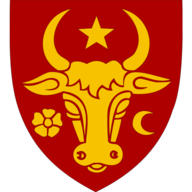
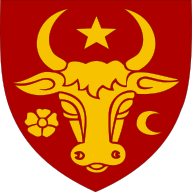
Add Moldavia crest branding

diff --git a/_includes/custom-head.html b/_includes/custom-head.html
@@ -4,10 +4,12 @@
   1. Head over to https://realfavicongenerator.net/ to add your own favicons.
   2. Customize default _includes/custom-head.html in your source directory and insert the given code snippet.
 {% endcomment %}
-<link rel="apple-touch-icon" sizes="180x180" href="/apple-touch-icon.png">
-<link rel="icon" type="image/png" sizes="32x32" href="/favicon-32x32.png">
-<link rel="icon" type="image/png" sizes="16x16" href="/favicon-16x16.png">
-<link rel="manifest" href="/site.webmanifest">
-<link rel="mask-icon" href="/safari-pinned-tab.svg" color="#5bbad5">
+<link rel="icon" type="image/svg+xml" href="{{ '/assets/stema-moldovei.svg' | relative_url }}">
+<link rel="shortcut icon" href="{{ '/favicon.ico' | relative_url }}">
+<link rel="apple-touch-icon" sizes="180x180" href="{{ '/apple-touch-icon.png' | relative_url }}">
+<link rel="icon" type="image/png" sizes="32x32" href="{{ '/favicon-32x32.png' | relative_url }}">
+<link rel="icon" type="image/png" sizes="16x16" href="{{ '/favicon-16x16.png' | relative_url }}">
+<link rel="manifest" href="{{ '/site.webmanifest' | relative_url }}">
+<link rel="mask-icon" href="{{ '/assets/stema-moldovei.svg' | relative_url }}" color="#b00000">
 <meta name="msapplication-TileColor" content="#da532c">
 <meta name="theme-color" content="#ffffff">

diff --git a/assets/main.scss b/assets/main.scss
@@ -84,11 +84,22 @@ a:hover {
 
 .site-title,
 .site-title:visited {
+  display: inline-flex;
+  align-items: center;
+  gap: 0.55rem;
   color: var(--ink);
   font-size: 1.05rem;
   font-weight: 700;
   letter-spacing: -0.02em;
   text-decoration: none;
+}
+
+.site-title__crest {
+  display: block;
+  width: 28px;
+  height: 31px;
+  flex: 0 0 auto;
+  object-fit: contain;
 }
 
 .site-nav {
@@ -150,13 +161,28 @@ a:hover {
   border-bottom: 1px solid var(--line);
 }
 
-.civic-hero h1 {
+.civic-hero h1.civic-hero__brand {
+  display: flex;
+  align-items: center;
+  gap: 0.32em;
   margin: 0 0 1rem;
   color: var(--ink);
   font-size: clamp(2.8rem, 8vw, 5.25rem);
   font-weight: 700;
   letter-spacing: -0.08em;
   line-height: 0.98;
+}
+
+.civic-hero__brand img {
+  display: block;
+  width: 0.92em;
+  height: 1.02em;
+  flex: 0 0 auto;
+  object-fit: contain;
+}
+
+.civic-hero__brand span {
+  display: block;
 }
 
 .civic-hero__lead {

diff --git a/ru/index.html b/ru/index.html
@@ -8,7 +8,10 @@ permalink: /ru/
 <div class="civic-home">
   <section class="civic-hero" aria-labelledby="site-title-ru">
     <p class="eyebrow">Гражданская инициатива</p>
-    <h1 id="site-title-ru">MOLDOVA</h1>
+    <h1 id="site-title-ru" class="civic-hero__brand">
+      <img src="{{ '/assets/stema-moldovei.svg' | relative_url }}" alt="" width="77" height="85">
+      <span>MOLDOVA</span>
+    </h1>
     <p class="civic-hero__lead">Документирование, анализ и диалог о Республике Молдова — её истории, идентичности, языке, институтах и общественном интересе.</p>
     <div class="hero-actions" aria-label="Быстрый доступ">
       <a class="button-link" href="{{ '/ru/initsiativy/' | relative_url }}">Посмотреть инициативы</a>

diff --git a/fr/index.html b/fr/index.html
@@ -8,7 +8,10 @@ permalink: /fr/
 <div class="civic-home">
   <section class="civic-hero" aria-labelledby="site-title-fr">
     <p class="eyebrow">Initiative civique</p>
-    <h1 id="site-title-fr">MOLDOVA</h1>
+    <h1 id="site-title-fr" class="civic-hero__brand">
+      <img src="{{ '/assets/stema-moldovei.svg' | relative_url }}" alt="" width="77" height="85">
+      <span>MOLDOVA</span>
+    </h1>
     <p class="civic-hero__lead">Documentation, analyse et dialogue sur la République de Moldova — histoire, identité, langue, institutions et intérêt public.</p>
     <div class="hero-actions" aria-label="Accès rapide">
       <a class="button-link" href="{{ '/fr/initiatives/' | relative_url }}">Voir les initiatives</a>

diff --git a/en/index.html b/en/index.html
@@ -8,7 +8,10 @@ permalink: /en/
 <div class="civic-home">
   <section class="civic-hero" aria-labelledby="site-title-en">
     <p class="eyebrow">Civic initiative</p>
-    <h1 id="site-title-en">MOLDOVA</h1>
+    <h1 id="site-title-en" class="civic-hero__brand">
+      <img src="{{ '/assets/stema-moldovei.svg' | relative_url }}" alt="" width="77" height="85">
+      <span>MOLDOVA</span>
+    </h1>
     <p class="civic-hero__lead">Documentation, analysis and dialogue about the Republic of Moldova — history, identity, language, institutions and the public interest.</p>
     <div class="hero-actions" aria-label="Quick access">
       <a class="button-link" href="{{ '/en/initiatives/' | relative_url }}">View initiatives</a>

diff --git a/index.html b/index.html
@@ -7,7 +7,10 @@ lang: mo
 <div class="civic-home">
   <section class="civic-hero" aria-labelledby="site-title">
     <p class="eyebrow">Inițiativă civică</p>
-    <h1 id="site-title">MOLDOVA</h1>
+    <h1 id="site-title" class="civic-hero__brand">
+      <img src="{{ '/assets/stema-moldovei.svg' | relative_url }}" alt="" width="77" height="85">
+      <span>MOLDOVA</span>
+    </h1>
     <p class="civic-hero__lead">Documentare, analiză și dialog despre Republica Moldova — istorie, identitate, limbă, instituții și interes public.</p>
     <div class="hero-actions" aria-label="Acces rapid">
       <a class="button-link" href="{{ '/initiative/' | relative_url }}">Vezi inițiativele</a>

diff --git a/_includes/header.html b/_includes/header.html
@@ -1,6 +1,9 @@
 <header class="site-header" role="banner">
   <div class="wrapper site-header__inner">
-    <a class="site-title" rel="author" href="{{ '/' | relative_url }}">{{ site.title | escape }}</a>
+    <a class="site-title" rel="author" href="{{ '/' | relative_url }}" aria-label="MOLDOVA">
+      <img class="site-title__crest" src="{{ '/assets/stema-moldovei.svg' | relative_url }}" alt="" width="28" height="31">
+      <span>{{ site.title | escape }}</span>
+    </a>
 
     <div class="site-header__tools">
       <nav class="site-nav" aria-label="Navigare principală">

diff --git a/_includes/head.html b/_includes/head.html
@@ -1,0 +1,12 @@
+<head>
+  <meta charset="utf-8">
+  <meta http-equiv="X-UA-Compatible" content="IE=edge">
+  <meta name="viewport" content="width=device-width, initial-scale=1">
+  {%- seo -%}
+  <link rel="stylesheet" href="{{ '/assets/main.css' | relative_url }}">
+  {%- feed_meta -%}
+  {%- if jekyll.environment == 'production' and site.google_analytics -%}
+    {%- include google-analytics.html -%}
+  {%- endif -%}
+  {%- include custom-head.html -%}
+</head>
